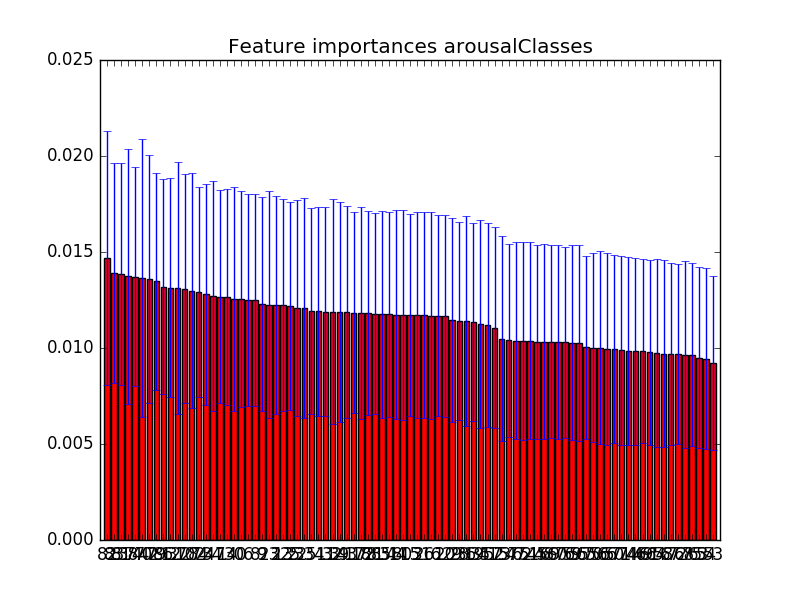
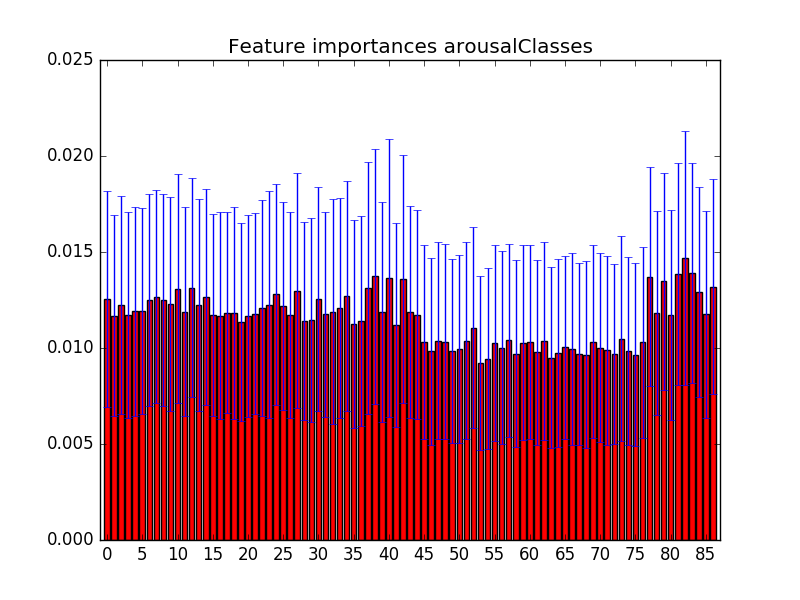
global working

diff --git a/results/GlobalRFarousalClasses2016-02-27 222131.html b/results/GlobalRFarousalClasses2016-02-27 222131.html
@@ -1,0 +1,10 @@
+<html><head><title>arousalClasses</title></head><body><h1>Meta Data</h1>
+        <table>
+        <tr>
+            <td><b>Classificator Used:</b></td>
+            <td>arousalClasses</td>
+        </tr>
+        <tr>
+            <td><b>Created on</b></td>
+            <td>2016-02-27 22:21:31</td>
+        <tr></table></br></br></br><img src="plots/globalPlotarousalClasses.png" ></br></br><h1>Importance Scores</h1></br><table><tr><td><b>Index</b></td><td>0</td><td>1</td><td>2</td><td>3</td><td>4</td><td>5</td><td>6</td><td>7</td><td>8</td><td>9</td><td>10</td><td>11</td><td>12</td><td>13</td><td>14</td><td>15</td><td>16</td><td>17</td><td>18</td><td>19</td><td>20</td><td>21</td><td>22</td><td>23</td><td>24</td><td>25</td><td>26</td><td>27</td><td>28</td><td>29</td><td>30</td><td>31</td><td>32</td><td>33</td><td>34</td><td>35</td><td>36</td><td>37</td><td>38</td><td>39</td><td>40</td><td>41</td><td>42</td><td>43</td><td>44</td><td>45</td><td>46</td><td>47</td><td>48</td><td>49</td><td>50</td><td>51</td><td>52</td><td>53</td><td>54</td><td>55</td><td>56</td><td>57</td><td>58</td><td>59</td><td>60</td><td>61</td><td>62</td><td>63</td><td>64</td><td>65</td><td>66</td><td>67</td><td>68</td><td>69</td><td>70</td><td>71</td><td>72</td><td>73</td><td>74</td><td>75</td><td>76</td><td>77</td><td>78</td><td>79</td><td>80</td><td>81</td><td>82</td><td>83</td><td>84</td><td>85</td><td>86</td></tr><tr><td><b>Rank</b></td><td>54</td><td>55</td><td>64</td><td>76</td><td>69</td><td>73</td><td>68</td><td>59</td><td>65</td><td>62</td><td>50</td><td>47</td><td>75</td><td>72</td><td>51</td><td>67</td><td>57</td><td>71</td><td>66</td><td>56</td><td>60</td><td>77</td><td>61</td><td>70</td><td>49</td><td>46</td><td>52</td><td>63</td><td>48</td><td>58</td><td>74</td><td>53</td><td>42</td><td>36</td><td>20</td><td>37</td><td>29</td><td>30</td><td>21</td><td>2</td><td>17</td><td>27</td><td>4</td><td>16</td><td>81</td><td>45</td><td>32</td><td>86</td><td>22</td><td>79</td><td>19</td><td>18</td><td>44</td><td>40</td><td>33</td><td>12</td><td>5</td><td>6</td><td>34</td><td>23</td><td>26</td><td>14</td><td>3</td><td>24</td><td>10</td><td>9</td><td>7</td><td>1</td><td>31</td><td>15</td><td>8</td><td>35</td><td>25</td><td>85</td><td>28</td><td>11</td><td>38</td><td>13</td><td>87</td><td>80</td><td>43</td><td>41</td><td>78</td><td>39</td><td>82</td><td>84</td><td>83</td></tr><tr><td><b>featName</b></td><td><b>A/B Fp1</b></td><td><b>A/B AF3</b></td><td><b>A/B F3</b></td><td><b>A/B F7</b></td><td><b>A/B FC5</b></td><td><b>A/B FC1</b></td><td><b>A/B C3</b></td><td><b>A/B T7</b></td><td><b>A/B CP5</b></td><td><b>A/B CP1</b></td><td><b>A/B P3</b></td><td><b>A/B P7</b></td><td><b>A/B PO3</b></td><td><b>A/B O1</b></td><td><b>A/B Oz</b></td><td><b>A/B Pz</b></td><td><b>A/B Fp2</b></td><td><b>A/B AF4</b></td><td><b>A/B Fz</b></td><td><b>A/B F4</b></td><td><b>A/B F8</b></td><td><b>A/B FC6</b></td><td><b>A/B FC2</b></td><td><b>A/B Cz</b></td><td><b>A/B C4</b></td><td><b>A/B T8</b></td><td><b>A/B CP6</b></td><td><b>A/B CP2</b></td><td><b>A/B P4</b></td><td><b>A/B P8</b></td><td><b>A/B PO4</b></td><td><b>A/B O2</b></td><td><b>LR Fp1,Fp2</b></td><td><b>LR AF3,AF4</b></td><td><b>LR F3,F4</b></td><td><b>LR F7,F8</b></td><td><b>LR FC5,FC6</b></td><td><b>LR FC1,FC2</b></td><td><b>LR C3,C4</b></td><td><b>LR T7,T8</b></td><td><b>LR CP5,CP6</b></td><td><b>LR CP1,CP2</b></td><td><b>LR P3,P4</b></td><td><b>LR P7,P8</b></td><td><b>LR PO3,PO4</b></td><td><b>FM Fp1</b></td><td><b>FM AF3</b></td><td><b>FM F3</b></td><td><b>FM F7</b></td><td><b>FM FC5</b></td><td><b>FM FC1</b></td><td><b>FM C3</b></td><td><b>FM T7</b></td><td><b>FM CP5</b></td><td><b>FM CP1</b></td><td><b>FM P3</b></td><td><b>FM P7</b></td><td><b>FM PO3</b></td><td><b>FM O1</b></td><td><b>FM Oz</b></td><td><b>FM Pz</b></td><td><b>FM Fp2</b></td><td><b>FM AF4</b></td><td><b>FM Fz</b></td><td><b>FM F4</b></td><td><b>FM F8</b></td><td><b>FM FC6</b></td><td><b>FM FC2</b></td><td><b>FM Cz</b></td><td><b>FM C4</b></td><td><b>FM T8</b></td><td><b>FM CP6</b></td><td><b>FM CP2</b></td><td><b>FM P4</b></td><td><b>FM P8</b></td><td><b>FM PO4</b></td><td><b>FM O2</b></td><td><b>avg GSR</b></td><td><b>std GSR</b></td><td><b>avg Respiration belt</b></td><td><b>std Respiration belt</b></td><td><b>avg Plethysmograph</b></td><td><b>std Plethysmograph</b></td><td><b>avg Temperature</b></td><td><b>std Temperature</b></td><td><b>avg HR</b></td><td><b>std HR</b></td></tr><tr><td><b>Importance Scores</b></td><td>0.0125426775008</td><td>0.0116830410492</td><td>0.0122406592275</td><td>0.01172226258</td><td>0.0119089150083</td><td>0.0119289507341</td><td>0.0125062032705</td><td>0.0126672956044</td><td>0.0124987527606</td><td>0.0123020351837</td><td>0.0130958707994</td><td>0.0118961575804</td><td>0.0131395558286</td><td>0.0122393144145</td><td>0.0126639326619</td><td>0.0117230317455</td><td>0.0116920653577</td><td>0.0118344615596</td><td>0.011829451097</td><td>0.0113719837451</td><td>0.0116727457831</td><td>0.0117830862885</td><td>0.0121048581646</td><td>0.0122554593983</td><td>0.0128016166841</td><td>0.0121843615218</td><td>0.01170850605</td><td>0.0129765198296</td><td>0.0114191567056</td><td>0.011455909643</td><td>0.0125567609784</td><td>0.0117495085041</td><td>0.0118857527676</td><td>0.012102716377</td><td>0.0127337550407</td><td>0.0112545085459</td><td>0.0114080826171</td><td>0.0131294517222</td><td>0.0137369675081</td><td>0.0118794544349</td><td>0.0136705636255</td><td>0.0112112987869</td><td>0.0135879806665</td><td>0.0118666767002</td><td>0.0117432095786</td><td>0.0103323246408</td><td>0.00982903556663</td><td>0.0103839330633</td><td>0.0103312459013</td><td>0.00982708570027</td><td>0.0099323267727</td><td>0.0103668873344</td><td>0.0110564306887</td><td>0.00921456729323</td><td>0.00944964973937</td><td>0.0102789212042</td><td>0.0100087663243</td><td>0.0103969594517</td><td>0.00970760346537</td><td>0.0102847531291</td><td>0.0103118251514</td><td>0.00976770182858</td><td>0.0103722079645</td><td>0.00949655075745</td><td>0.00974905418831</td><td>0.0100264526</td><td>0.00994609297028</td><td>0.0096838070718</td><td>0.00965968780341</td><td>0.010321928645</td><td>0.0100210481668</td><td>0.00988945498074</td><td>0.00968130314824</td><td>0.0104885526453</td><td>0.00984103088578</td><td>0.00965565423834</td><td>0.0102912715013</td><td>0.013708309364</td><td>0.0118217553841</td><td>0.0134716176739</td><td>0.0117368407731</td><td>0.0138484738991</td><td>0.0146903842072</td><td>0.0139000552105</td><td>0.0129067787206</td><td>0.0117517536223</td><td>0.0131943906915</td></tr><tr><td><b>std</b></td><td>0.00562233540448</td><td>0.00524850111558</td><td>0.00567760460711</td><td>0.00536066290516</td><td>0.00544725322076</td><td>0.00537772812924</td><td>0.00551640666865</td><td>0.00555733861077</td><td>0.00551341526909</td><td>0.00558824606153</td><td>0.00594709315908</td><td>0.00542442443433</td><td>0.00571745964655</td><td>0.00554122961679</td><td>0.00561966055974</td><td>0.00524856677855</td><td>0.00539091083283</td><td>0.00524544784083</td><td>0.00551802619201</td><td>0.00515161298197</td><td>0.00524116664731</td><td>0.00522974161026</td><td>0.00562179949667</td><td>0.00592060985669</td><td>0.00574952499973</td><td>0.0054260098433</td><td>0.00535219327886</td><td>0.0061269986134</td><td>0.00514383836651</td><td>0.00529948395425</td><td>0.00581572954657</td><td>0.00531897338842</td><td>0.00586909321888</td><td>0.00573490089488</td><td>0.00599008072284</td><td>0.00543776864172</td><td>0.00546166521544</td><td>0.00654371887966</td><td>0.00663433561386</td><td>0.00571538585804</td><td>0.00723920887423</td><td>0.00531918937359</td><td>0.00644620473844</td><td>0.00551624171866</td><td>0.00544645994649</td><td>0.00505129654869</td><td>0.00485798728723</td><td>0.00513241792367</td><td>0.00506509858951</td><td>0.00479483511215</td><td>0.00490187271735</td><td>0.00513205853258</td><td>0.00523944304575</td><td>0.00452870838723</td><td>0.00472370941972</td><td>0.00510400837667</td><td>0.00502710818121</td><td>0.00503524880634</td><td>0.00488683963076</td><td>0.00507444888863</td><td>0.00504727176502</td><td>0.00483255747636</td><td>0.00516539054798</td><td>0.00470974653546</td><td>0.00489703698029</td><td>0.00475614228763</td><td>0.00500089880678</td><td>0.00474560961637</td><td>0.00485279315868</td><td>0.00502390222634</td><td>0.0049120398681</td><td>0.00492234892832</td><td>0.0046776528769</td><td>0.00535491824534</td><td>0.00490721842012</td><td>0.00477770671263</td><td>0.00498823315619</td><td>0.00570203313741</td><td>0.00532233482777</td><td>0.00564872626075</td><td>0.00546368210419</td><td>0.0057753285206</td><td>0.00661419606723</td><td>0.00573253923709</td><td>0.00547699305957</td><td>0.00538104501384</td><td>0.00559982780133</td></tr></table></body></html>

diff --git a/results/latest/GlobalRFarousalClasses2016-02-27 222131.html b/results/latest/GlobalRFarousalClasses2016-02-27 222131.html
@@ -1,0 +1,10 @@
+<html><head><title>arousalClasses</title></head><body><h1>Meta Data</h1>
+        <table>
+        <tr>
+            <td><b>Classificator Used:</b></td>
+            <td>arousalClasses</td>
+        </tr>
+        <tr>
+            <td><b>Created on</b></td>
+            <td>2016-02-27 22:21:31</td>
+        <tr></table></br></br></br><img src="plots/globalPlotarousalClasses.png" ></br></br><h1>Importance Scores</h1></br><table><tr><td><b>Index</b></td><td>0</td><td>1</td><td>2</td><td>3</td><td>4</td><td>5</td><td>6</td><td>7</td><td>8</td><td>9</td><td>10</td><td>11</td><td>12</td><td>13</td><td>14</td><td>15</td><td>16</td><td>17</td><td>18</td><td>19</td><td>20</td><td>21</td><td>22</td><td>23</td><td>24</td><td>25</td><td>26</td><td>27</td><td>28</td><td>29</td><td>30</td><td>31</td><td>32</td><td>33</td><td>34</td><td>35</td><td>36</td><td>37</td><td>38</td><td>39</td><td>40</td><td>41</td><td>42</td><td>43</td><td>44</td><td>45</td><td>46</td><td>47</td><td>48</td><td>49</td><td>50</td><td>51</td><td>52</td><td>53</td><td>54</td><td>55</td><td>56</td><td>57</td><td>58</td><td>59</td><td>60</td><td>61</td><td>62</td><td>63</td><td>64</td><td>65</td><td>66</td><td>67</td><td>68</td><td>69</td><td>70</td><td>71</td><td>72</td><td>73</td><td>74</td><td>75</td><td>76</td><td>77</td><td>78</td><td>79</td><td>80</td><td>81</td><td>82</td><td>83</td><td>84</td><td>85</td><td>86</td></tr><tr><td><b>Rank</b></td><td>54</td><td>55</td><td>64</td><td>76</td><td>69</td><td>73</td><td>68</td><td>59</td><td>65</td><td>62</td><td>50</td><td>47</td><td>75</td><td>72</td><td>51</td><td>67</td><td>57</td><td>71</td><td>66</td><td>56</td><td>60</td><td>77</td><td>61</td><td>70</td><td>49</td><td>46</td><td>52</td><td>63</td><td>48</td><td>58</td><td>74</td><td>53</td><td>42</td><td>36</td><td>20</td><td>37</td><td>29</td><td>30</td><td>21</td><td>2</td><td>17</td><td>27</td><td>4</td><td>16</td><td>81</td><td>45</td><td>32</td><td>86</td><td>22</td><td>79</td><td>19</td><td>18</td><td>44</td><td>40</td><td>33</td><td>12</td><td>5</td><td>6</td><td>34</td><td>23</td><td>26</td><td>14</td><td>3</td><td>24</td><td>10</td><td>9</td><td>7</td><td>1</td><td>31</td><td>15</td><td>8</td><td>35</td><td>25</td><td>85</td><td>28</td><td>11</td><td>38</td><td>13</td><td>87</td><td>80</td><td>43</td><td>41</td><td>78</td><td>39</td><td>82</td><td>84</td><td>83</td></tr><tr><td><b>featName</b></td><td><b>A/B Fp1</b></td><td><b>A/B AF3</b></td><td><b>A/B F3</b></td><td><b>A/B F7</b></td><td><b>A/B FC5</b></td><td><b>A/B FC1</b></td><td><b>A/B C3</b></td><td><b>A/B T7</b></td><td><b>A/B CP5</b></td><td><b>A/B CP1</b></td><td><b>A/B P3</b></td><td><b>A/B P7</b></td><td><b>A/B PO3</b></td><td><b>A/B O1</b></td><td><b>A/B Oz</b></td><td><b>A/B Pz</b></td><td><b>A/B Fp2</b></td><td><b>A/B AF4</b></td><td><b>A/B Fz</b></td><td><b>A/B F4</b></td><td><b>A/B F8</b></td><td><b>A/B FC6</b></td><td><b>A/B FC2</b></td><td><b>A/B Cz</b></td><td><b>A/B C4</b></td><td><b>A/B T8</b></td><td><b>A/B CP6</b></td><td><b>A/B CP2</b></td><td><b>A/B P4</b></td><td><b>A/B P8</b></td><td><b>A/B PO4</b></td><td><b>A/B O2</b></td><td><b>LR Fp1,Fp2</b></td><td><b>LR AF3,AF4</b></td><td><b>LR F3,F4</b></td><td><b>LR F7,F8</b></td><td><b>LR FC5,FC6</b></td><td><b>LR FC1,FC2</b></td><td><b>LR C3,C4</b></td><td><b>LR T7,T8</b></td><td><b>LR CP5,CP6</b></td><td><b>LR CP1,CP2</b></td><td><b>LR P3,P4</b></td><td><b>LR P7,P8</b></td><td><b>LR PO3,PO4</b></td><td><b>FM Fp1</b></td><td><b>FM AF3</b></td><td><b>FM F3</b></td><td><b>FM F7</b></td><td><b>FM FC5</b></td><td><b>FM FC1</b></td><td><b>FM C3</b></td><td><b>FM T7</b></td><td><b>FM CP5</b></td><td><b>FM CP1</b></td><td><b>FM P3</b></td><td><b>FM P7</b></td><td><b>FM PO3</b></td><td><b>FM O1</b></td><td><b>FM Oz</b></td><td><b>FM Pz</b></td><td><b>FM Fp2</b></td><td><b>FM AF4</b></td><td><b>FM Fz</b></td><td><b>FM F4</b></td><td><b>FM F8</b></td><td><b>FM FC6</b></td><td><b>FM FC2</b></td><td><b>FM Cz</b></td><td><b>FM C4</b></td><td><b>FM T8</b></td><td><b>FM CP6</b></td><td><b>FM CP2</b></td><td><b>FM P4</b></td><td><b>FM P8</b></td><td><b>FM PO4</b></td><td><b>FM O2</b></td><td><b>avg GSR</b></td><td><b>std GSR</b></td><td><b>avg Respiration belt</b></td><td><b>std Respiration belt</b></td><td><b>avg Plethysmograph</b></td><td><b>std Plethysmograph</b></td><td><b>avg Temperature</b></td><td><b>std Temperature</b></td><td><b>avg HR</b></td><td><b>std HR</b></td></tr><tr><td><b>Importance Scores</b></td><td>0.0125426775008</td><td>0.0116830410492</td><td>0.0122406592275</td><td>0.01172226258</td><td>0.0119089150083</td><td>0.0119289507341</td><td>0.0125062032705</td><td>0.0126672956044</td><td>0.0124987527606</td><td>0.0123020351837</td><td>0.0130958707994</td><td>0.0118961575804</td><td>0.0131395558286</td><td>0.0122393144145</td><td>0.0126639326619</td><td>0.0117230317455</td><td>0.0116920653577</td><td>0.0118344615596</td><td>0.011829451097</td><td>0.0113719837451</td><td>0.0116727457831</td><td>0.0117830862885</td><td>0.0121048581646</td><td>0.0122554593983</td><td>0.0128016166841</td><td>0.0121843615218</td><td>0.01170850605</td><td>0.0129765198296</td><td>0.0114191567056</td><td>0.011455909643</td><td>0.0125567609784</td><td>0.0117495085041</td><td>0.0118857527676</td><td>0.012102716377</td><td>0.0127337550407</td><td>0.0112545085459</td><td>0.0114080826171</td><td>0.0131294517222</td><td>0.0137369675081</td><td>0.0118794544349</td><td>0.0136705636255</td><td>0.0112112987869</td><td>0.0135879806665</td><td>0.0118666767002</td><td>0.0117432095786</td><td>0.0103323246408</td><td>0.00982903556663</td><td>0.0103839330633</td><td>0.0103312459013</td><td>0.00982708570027</td><td>0.0099323267727</td><td>0.0103668873344</td><td>0.0110564306887</td><td>0.00921456729323</td><td>0.00944964973937</td><td>0.0102789212042</td><td>0.0100087663243</td><td>0.0103969594517</td><td>0.00970760346537</td><td>0.0102847531291</td><td>0.0103118251514</td><td>0.00976770182858</td><td>0.0103722079645</td><td>0.00949655075745</td><td>0.00974905418831</td><td>0.0100264526</td><td>0.00994609297028</td><td>0.0096838070718</td><td>0.00965968780341</td><td>0.010321928645</td><td>0.0100210481668</td><td>0.00988945498074</td><td>0.00968130314824</td><td>0.0104885526453</td><td>0.00984103088578</td><td>0.00965565423834</td><td>0.0102912715013</td><td>0.013708309364</td><td>0.0118217553841</td><td>0.0134716176739</td><td>0.0117368407731</td><td>0.0138484738991</td><td>0.0146903842072</td><td>0.0139000552105</td><td>0.0129067787206</td><td>0.0117517536223</td><td>0.0131943906915</td></tr><tr><td><b>std</b></td><td>0.00562233540448</td><td>0.00524850111558</td><td>0.00567760460711</td><td>0.00536066290516</td><td>0.00544725322076</td><td>0.00537772812924</td><td>0.00551640666865</td><td>0.00555733861077</td><td>0.00551341526909</td><td>0.00558824606153</td><td>0.00594709315908</td><td>0.00542442443433</td><td>0.00571745964655</td><td>0.00554122961679</td><td>0.00561966055974</td><td>0.00524856677855</td><td>0.00539091083283</td><td>0.00524544784083</td><td>0.00551802619201</td><td>0.00515161298197</td><td>0.00524116664731</td><td>0.00522974161026</td><td>0.00562179949667</td><td>0.00592060985669</td><td>0.00574952499973</td><td>0.0054260098433</td><td>0.00535219327886</td><td>0.0061269986134</td><td>0.00514383836651</td><td>0.00529948395425</td><td>0.00581572954657</td><td>0.00531897338842</td><td>0.00586909321888</td><td>0.00573490089488</td><td>0.00599008072284</td><td>0.00543776864172</td><td>0.00546166521544</td><td>0.00654371887966</td><td>0.00663433561386</td><td>0.00571538585804</td><td>0.00723920887423</td><td>0.00531918937359</td><td>0.00644620473844</td><td>0.00551624171866</td><td>0.00544645994649</td><td>0.00505129654869</td><td>0.00485798728723</td><td>0.00513241792367</td><td>0.00506509858951</td><td>0.00479483511215</td><td>0.00490187271735</td><td>0.00513205853258</td><td>0.00523944304575</td><td>0.00452870838723</td><td>0.00472370941972</td><td>0.00510400837667</td><td>0.00502710818121</td><td>0.00503524880634</td><td>0.00488683963076</td><td>0.00507444888863</td><td>0.00504727176502</td><td>0.00483255747636</td><td>0.00516539054798</td><td>0.00470974653546</td><td>0.00489703698029</td><td>0.00475614228763</td><td>0.00500089880678</td><td>0.00474560961637</td><td>0.00485279315868</td><td>0.00502390222634</td><td>0.0049120398681</td><td>0.00492234892832</td><td>0.0046776528769</td><td>0.00535491824534</td><td>0.00490721842012</td><td>0.00477770671263</td><td>0.00498823315619</td><td>0.00570203313741</td><td>0.00532233482777</td><td>0.00564872626075</td><td>0.00546368210419</td><td>0.0057753285206</td><td>0.00661419606723</td><td>0.00573253923709</td><td>0.00547699305957</td><td>0.00538104501384</td><td>0.00559982780133</td></tr></table></body></html>

diff --git a/results/GlobalRFvalenceClasses2016-02-27 222122.html b/results/GlobalRFvalenceClasses2016-02-27 222122.html
@@ -1,0 +1,10 @@
+<html><head><title>valenceClasses</title></head><body><h1>Meta Data</h1>
+        <table>
+        <tr>
+            <td><b>Classificator Used:</b></td>
+            <td>valenceClasses</td>
+        </tr>
+        <tr>
+            <td><b>Created on</b></td>
+            <td>2016-02-27 22:21:22</td>
+        <tr></table></br></br></br><img src="plots/globalPlotvalenceClasses.png" ></br></br><h1>Importance Scores</h1></br><table><tr><td><b>Index</b></td><td>0</td><td>1</td><td>2</td><td>3</td><td>4</td><td>5</td><td>6</td><td>7</td><td>8</td><td>9</td><td>10</td><td>11</td><td>12</td><td>13</td><td>14</td><td>15</td><td>16</td><td>17</td><td>18</td><td>19</td><td>20</td><td>21</td><td>22</td><td>23</td><td>24</td><td>25</td><td>26</td><td>27</td><td>28</td><td>29</td><td>30</td><td>31</td><td>32</td><td>33</td><td>34</td><td>35</td><td>36</td><td>37</td><td>38</td><td>39</td><td>40</td><td>41</td><td>42</td><td>43</td><td>44</td><td>45</td><td>46</td><td>47</td><td>48</td><td>49</td><td>50</td><td>51</td><td>52</td><td>53</td><td>54</td><td>55</td><td>56</td><td>57</td><td>58</td><td>59</td><td>60</td><td>61</td><td>62</td><td>63</td><td>64</td><td>65</td><td>66</td><td>67</td><td>68</td><td>69</td><td>70</td><td>71</td><td>72</td><td>73</td><td>74</td><td>75</td><td>76</td><td>77</td><td>78</td><td>79</td><td>80</td><td>81</td><td>82</td><td>83</td><td>84</td><td>85</td><td>86</td></tr><tr><td><b>Rank</b></td><td>50</td><td>65</td><td>62</td><td>57</td><td>49</td><td>73</td><td>59</td><td>52</td><td>51</td><td>69</td><td>67</td><td>46</td><td>64</td><td>58</td><td>74</td><td>47</td><td>61</td><td>76</td><td>55</td><td>66</td><td>33</td><td>56</td><td>48</td><td>71</td><td>63</td><td>77</td><td>60</td><td>40</td><td>54</td><td>38</td><td>53</td><td>70</td><td>72</td><td>41</td><td>75</td><td>68</td><td>45</td><td>35</td><td>12</td><td>36</td><td>34</td><td>42</td><td>4</td><td>44</td><td>20</td><td>39</td><td>14</td><td>37</td><td>83</td><td>18</td><td>15</td><td>28</td><td>43</td><td>11</td><td>23</td><td>9</td><td>24</td><td>10</td><td>85</td><td>81</td><td>30</td><td>19</td><td>27</td><td>6</td><td>79</td><td>2</td><td>26</td><td>22</td><td>32</td><td>31</td><td>3</td><td>7</td><td>25</td><td>13</td><td>29</td><td>21</td><td>84</td><td>5</td><td>17</td><td>86</td><td>1</td><td>8</td><td>87</td><td>16</td><td>80</td><td>82</td><td>78</td></tr><tr><td><b>featName</b></td><td><b>A/B Fp1</b></td><td><b>A/B AF3</b></td><td><b>A/B F3</b></td><td><b>A/B F7</b></td><td><b>A/B FC5</b></td><td><b>A/B FC1</b></td><td><b>A/B C3</b></td><td><b>A/B T7</b></td><td><b>A/B CP5</b></td><td><b>A/B CP1</b></td><td><b>A/B P3</b></td><td><b>A/B P7</b></td><td><b>A/B PO3</b></td><td><b>A/B O1</b></td><td><b>A/B Oz</b></td><td><b>A/B Pz</b></td><td><b>A/B Fp2</b></td><td><b>A/B AF4</b></td><td><b>A/B Fz</b></td><td><b>A/B F4</b></td><td><b>A/B F8</b></td><td><b>A/B FC6</b></td><td><b>A/B FC2</b></td><td><b>A/B Cz</b></td><td><b>A/B C4</b></td><td><b>A/B T8</b></td><td><b>A/B CP6</b></td><td><b>A/B CP2</b></td><td><b>A/B P4</b></td><td><b>A/B P8</b></td><td><b>A/B PO4</b></td><td><b>A/B O2</b></td><td><b>LR Fp1,Fp2</b></td><td><b>LR AF3,AF4</b></td><td><b>LR F3,F4</b></td><td><b>LR F7,F8</b></td><td><b>LR FC5,FC6</b></td><td><b>LR FC1,FC2</b></td><td><b>LR C3,C4</b></td><td><b>LR T7,T8</b></td><td><b>LR CP5,CP6</b></td><td><b>LR CP1,CP2</b></td><td><b>LR P3,P4</b></td><td><b>LR P7,P8</b></td><td><b>LR PO3,PO4</b></td><td><b>FM Fp1</b></td><td><b>FM AF3</b></td><td><b>FM F3</b></td><td><b>FM F7</b></td><td><b>FM FC5</b></td><td><b>FM FC1</b></td><td><b>FM C3</b></td><td><b>FM T7</b></td><td><b>FM CP5</b></td><td><b>FM CP1</b></td><td><b>FM P3</b></td><td><b>FM P7</b></td><td><b>FM PO3</b></td><td><b>FM O1</b></td><td><b>FM Oz</b></td><td><b>FM Pz</b></td><td><b>FM Fp2</b></td><td><b>FM AF4</b></td><td><b>FM Fz</b></td><td><b>FM F4</b></td><td><b>FM F8</b></td><td><b>FM FC6</b></td><td><b>FM FC2</b></td><td><b>FM Cz</b></td><td><b>FM C4</b></td><td><b>FM T8</b></td><td><b>FM CP6</b></td><td><b>FM CP2</b></td><td><b>FM P4</b></td><td><b>FM P8</b></td><td><b>FM PO4</b></td><td><b>FM O2</b></td><td><b>avg GSR</b></td><td><b>std GSR</b></td><td><b>avg Respiration belt</b></td><td><b>std Respiration belt</b></td><td><b>avg Plethysmograph</b></td><td><b>std Plethysmograph</b></td><td><b>avg Temperature</b></td><td><b>std Temperature</b></td><td><b>avg HR</b></td><td><b>std HR</b></td></tr><tr><td><b>Importance Scores</b></td><td>0.0134486091158</td><td>0.0126307289795</td><td>0.0126446385156</td><td>0.0113997683378</td><td>0.0132238497784</td><td>0.0125810634869</td><td>0.0127209267861</td><td>0.0134659177626</td><td>0.0120637783893</td><td>0.0121440283201</td><td>0.0120491934709</td><td>0.0111293441975</td><td>0.0127754546971</td><td>0.0116955482003</td><td>0.0119221851283</td><td>0.0136886901541</td><td>0.0132410524193</td><td>0.0118776629076</td><td>0.0124375152004</td><td>0.0115266879192</td><td>0.0130722990116</td><td>0.0126392272338</td><td>0.0120559803728</td><td>0.0121083978957</td><td>0.0127681425277</td><td>0.0126315342223</td><td>0.0125766226487</td><td>0.0119802407839</td><td>0.0127824422522</td><td>0.0123421076318</td><td>0.012644340831</td><td>0.0126423300232</td><td>0.010270437686</td><td>0.0113016188037</td><td>0.0111172934257</td><td>0.0112441929764</td><td>0.0117178639971</td><td>0.0107390621176</td><td>0.0116565820745</td><td>0.0103880339306</td><td>0.0108798904912</td><td>0.0113768398091</td><td>0.0120352691871</td><td>0.0114355412625</td><td>0.0110518011933</td><td>0.00991675495744</td><td>0.0100069452146</td><td>0.0103176101421</td><td>0.0095801682048</td><td>0.00910336653918</td><td>0.00974389668792</td><td>0.00964000627286</td><td>0.0107549615216</td><td>0.01051982444</td><td>0.0101422798128</td><td>0.0102815322931</td><td>0.00953747580697</td><td>0.00994162896979</td><td>0.00963878873221</td><td>0.0103767499919</td><td>0.010009202327</td><td>0.0095308892606</td><td>0.0103422534206</td><td>0.0099240455874</td><td>0.00940114705598</td><td>0.0101847914028</td><td>0.00981417282832</td><td>0.0109423336427</td><td>0.0097849409063</td><td>0.010823841037</td><td>0.0103240626037</td><td>0.0108540991471</td><td>0.00962505348514</td><td>0.00994253592914</td><td>0.0108863372873</td><td>0.0100134433766</td><td>0.0103541641864</td><td>0.0163149978873</td><td>0.0125971617135</td><td>0.0137048139903</td><td>0.01227843726</td><td>0.014730308766</td><td>0.0117652484945</td><td>0.0132182534573</td><td>0.0121616307921</td><td>0.0132968965073</td><td>0.0135482119037</td></tr><tr><td><b>std</b></td><td>0.00567228754625</td><td>0.0054044823528</td><td>0.00542470779783</td><td>0.00511448383424</td><td>0.005753195961</td><td>0.00545712991565</td><td>0.00556081436085</td><td>0.00565721093902</td><td>0.00529696188518</td><td>0.00534957624725</td><td>0.00535450441319</td><td>0.00503969408101</td><td>0.00551689493464</td><td>0.00513078549835</td><td>0.00527270700643</td><td>0.00585962223531</td><td>0.00567646359676</td><td>0.00524449567807</td><td>0.00543790569007</td><td>0.00518743906012</td><td>0.00553881148801</td><td>0.00544812658262</td><td>0.00542355395582</td><td>0.00532302673774</td><td>0.00554513808521</td><td>0.00544600800801</td><td>0.00540728367207</td><td>0.00535916849463</td><td>0.00545646559243</td><td>0.00543237141577</td><td>0.00546532951178</td><td>0.00557131205785</td><td>0.0049392008853</td><td>0.0053419157694</td><td>0.00519340505184</td><td>0.00532912216235</td><td>0.00544174620092</td><td>0.005243749594</td><td>0.00544708746162</td><td>0.00493331667217</td><td>0.00503312377613</td><td>0.00520390898955</td><td>0.00554289171828</td><td>0.00523930238724</td><td>0.00509437120312</td><td>0.00478360104434</td><td>0.00479188069196</td><td>0.00492376037386</td><td>0.00462425682383</td><td>0.0044405555473</td><td>0.00478521009693</td><td>0.00466851088056</td><td>0.00510961937669</td><td>0.00489852185972</td><td>0.00480412302158</td><td>0.00494092207152</td><td>0.00462536994433</td><td>0.00479901018657</td><td>0.00472267023815</td><td>0.00507545163944</td><td>0.00471999879086</td><td>0.00468514985423</td><td>0.00494283046685</td><td>0.00482073344619</td><td>0.00467904742597</td><td>0.00484862171706</td><td>0.00475734210037</td><td>0.00525436528961</td><td>0.00481316672265</td><td>0.0051338463086</td><td>0.00485168166122</td><td>0.00501790810945</td><td>0.00467087066159</td><td>0.00478457676627</td><td>0.00512147685427</td><td>0.00479414214137</td><td>0.00494969953252</td><td>0.0063138329307</td><td>0.00540398663301</td><td>0.00562963888275</td><td>0.0053024630109</td><td>0.00581629085995</td><td>0.00516704542352</td><td>0.00552282728296</td><td>0.00526647724384</td><td>0.0056898190331</td><td>0.00567639456346</td></tr></table></body></html>

diff --git a/results/latest/GlobalRFvalenceClasses2016-02-27 222122.html b/results/latest/GlobalRFvalenceClasses2016-02-27 222122.html
@@ -1,0 +1,10 @@
+<html><head><title>valenceClasses</title></head><body><h1>Meta Data</h1>
+        <table>
+        <tr>
+            <td><b>Classificator Used:</b></td>
+            <td>valenceClasses</td>
+        </tr>
+        <tr>
+            <td><b>Created on</b></td>
+            <td>2016-02-27 22:21:22</td>
+        <tr></table></br></br></br><img src="plots/globalPlotvalenceClasses.png" ></br></br><h1>Importance Scores</h1></br><table><tr><td><b>Index</b></td><td>0</td><td>1</td><td>2</td><td>3</td><td>4</td><td>5</td><td>6</td><td>7</td><td>8</td><td>9</td><td>10</td><td>11</td><td>12</td><td>13</td><td>14</td><td>15</td><td>16</td><td>17</td><td>18</td><td>19</td><td>20</td><td>21</td><td>22</td><td>23</td><td>24</td><td>25</td><td>26</td><td>27</td><td>28</td><td>29</td><td>30</td><td>31</td><td>32</td><td>33</td><td>34</td><td>35</td><td>36</td><td>37</td><td>38</td><td>39</td><td>40</td><td>41</td><td>42</td><td>43</td><td>44</td><td>45</td><td>46</td><td>47</td><td>48</td><td>49</td><td>50</td><td>51</td><td>52</td><td>53</td><td>54</td><td>55</td><td>56</td><td>57</td><td>58</td><td>59</td><td>60</td><td>61</td><td>62</td><td>63</td><td>64</td><td>65</td><td>66</td><td>67</td><td>68</td><td>69</td><td>70</td><td>71</td><td>72</td><td>73</td><td>74</td><td>75</td><td>76</td><td>77</td><td>78</td><td>79</td><td>80</td><td>81</td><td>82</td><td>83</td><td>84</td><td>85</td><td>86</td></tr><tr><td><b>Rank</b></td><td>50</td><td>65</td><td>62</td><td>57</td><td>49</td><td>73</td><td>59</td><td>52</td><td>51</td><td>69</td><td>67</td><td>46</td><td>64</td><td>58</td><td>74</td><td>47</td><td>61</td><td>76</td><td>55</td><td>66</td><td>33</td><td>56</td><td>48</td><td>71</td><td>63</td><td>77</td><td>60</td><td>40</td><td>54</td><td>38</td><td>53</td><td>70</td><td>72</td><td>41</td><td>75</td><td>68</td><td>45</td><td>35</td><td>12</td><td>36</td><td>34</td><td>42</td><td>4</td><td>44</td><td>20</td><td>39</td><td>14</td><td>37</td><td>83</td><td>18</td><td>15</td><td>28</td><td>43</td><td>11</td><td>23</td><td>9</td><td>24</td><td>10</td><td>85</td><td>81</td><td>30</td><td>19</td><td>27</td><td>6</td><td>79</td><td>2</td><td>26</td><td>22</td><td>32</td><td>31</td><td>3</td><td>7</td><td>25</td><td>13</td><td>29</td><td>21</td><td>84</td><td>5</td><td>17</td><td>86</td><td>1</td><td>8</td><td>87</td><td>16</td><td>80</td><td>82</td><td>78</td></tr><tr><td><b>featName</b></td><td><b>A/B Fp1</b></td><td><b>A/B AF3</b></td><td><b>A/B F3</b></td><td><b>A/B F7</b></td><td><b>A/B FC5</b></td><td><b>A/B FC1</b></td><td><b>A/B C3</b></td><td><b>A/B T7</b></td><td><b>A/B CP5</b></td><td><b>A/B CP1</b></td><td><b>A/B P3</b></td><td><b>A/B P7</b></td><td><b>A/B PO3</b></td><td><b>A/B O1</b></td><td><b>A/B Oz</b></td><td><b>A/B Pz</b></td><td><b>A/B Fp2</b></td><td><b>A/B AF4</b></td><td><b>A/B Fz</b></td><td><b>A/B F4</b></td><td><b>A/B F8</b></td><td><b>A/B FC6</b></td><td><b>A/B FC2</b></td><td><b>A/B Cz</b></td><td><b>A/B C4</b></td><td><b>A/B T8</b></td><td><b>A/B CP6</b></td><td><b>A/B CP2</b></td><td><b>A/B P4</b></td><td><b>A/B P8</b></td><td><b>A/B PO4</b></td><td><b>A/B O2</b></td><td><b>LR Fp1,Fp2</b></td><td><b>LR AF3,AF4</b></td><td><b>LR F3,F4</b></td><td><b>LR F7,F8</b></td><td><b>LR FC5,FC6</b></td><td><b>LR FC1,FC2</b></td><td><b>LR C3,C4</b></td><td><b>LR T7,T8</b></td><td><b>LR CP5,CP6</b></td><td><b>LR CP1,CP2</b></td><td><b>LR P3,P4</b></td><td><b>LR P7,P8</b></td><td><b>LR PO3,PO4</b></td><td><b>FM Fp1</b></td><td><b>FM AF3</b></td><td><b>FM F3</b></td><td><b>FM F7</b></td><td><b>FM FC5</b></td><td><b>FM FC1</b></td><td><b>FM C3</b></td><td><b>FM T7</b></td><td><b>FM CP5</b></td><td><b>FM CP1</b></td><td><b>FM P3</b></td><td><b>FM P7</b></td><td><b>FM PO3</b></td><td><b>FM O1</b></td><td><b>FM Oz</b></td><td><b>FM Pz</b></td><td><b>FM Fp2</b></td><td><b>FM AF4</b></td><td><b>FM Fz</b></td><td><b>FM F4</b></td><td><b>FM F8</b></td><td><b>FM FC6</b></td><td><b>FM FC2</b></td><td><b>FM Cz</b></td><td><b>FM C4</b></td><td><b>FM T8</b></td><td><b>FM CP6</b></td><td><b>FM CP2</b></td><td><b>FM P4</b></td><td><b>FM P8</b></td><td><b>FM PO4</b></td><td><b>FM O2</b></td><td><b>avg GSR</b></td><td><b>std GSR</b></td><td><b>avg Respiration belt</b></td><td><b>std Respiration belt</b></td><td><b>avg Plethysmograph</b></td><td><b>std Plethysmograph</b></td><td><b>avg Temperature</b></td><td><b>std Temperature</b></td><td><b>avg HR</b></td><td><b>std HR</b></td></tr><tr><td><b>Importance Scores</b></td><td>0.0134486091158</td><td>0.0126307289795</td><td>0.0126446385156</td><td>0.0113997683378</td><td>0.0132238497784</td><td>0.0125810634869</td><td>0.0127209267861</td><td>0.0134659177626</td><td>0.0120637783893</td><td>0.0121440283201</td><td>0.0120491934709</td><td>0.0111293441975</td><td>0.0127754546971</td><td>0.0116955482003</td><td>0.0119221851283</td><td>0.0136886901541</td><td>0.0132410524193</td><td>0.0118776629076</td><td>0.0124375152004</td><td>0.0115266879192</td><td>0.0130722990116</td><td>0.0126392272338</td><td>0.0120559803728</td><td>0.0121083978957</td><td>0.0127681425277</td><td>0.0126315342223</td><td>0.0125766226487</td><td>0.0119802407839</td><td>0.0127824422522</td><td>0.0123421076318</td><td>0.012644340831</td><td>0.0126423300232</td><td>0.010270437686</td><td>0.0113016188037</td><td>0.0111172934257</td><td>0.0112441929764</td><td>0.0117178639971</td><td>0.0107390621176</td><td>0.0116565820745</td><td>0.0103880339306</td><td>0.0108798904912</td><td>0.0113768398091</td><td>0.0120352691871</td><td>0.0114355412625</td><td>0.0110518011933</td><td>0.00991675495744</td><td>0.0100069452146</td><td>0.0103176101421</td><td>0.0095801682048</td><td>0.00910336653918</td><td>0.00974389668792</td><td>0.00964000627286</td><td>0.0107549615216</td><td>0.01051982444</td><td>0.0101422798128</td><td>0.0102815322931</td><td>0.00953747580697</td><td>0.00994162896979</td><td>0.00963878873221</td><td>0.0103767499919</td><td>0.010009202327</td><td>0.0095308892606</td><td>0.0103422534206</td><td>0.0099240455874</td><td>0.00940114705598</td><td>0.0101847914028</td><td>0.00981417282832</td><td>0.0109423336427</td><td>0.0097849409063</td><td>0.010823841037</td><td>0.0103240626037</td><td>0.0108540991471</td><td>0.00962505348514</td><td>0.00994253592914</td><td>0.0108863372873</td><td>0.0100134433766</td><td>0.0103541641864</td><td>0.0163149978873</td><td>0.0125971617135</td><td>0.0137048139903</td><td>0.01227843726</td><td>0.014730308766</td><td>0.0117652484945</td><td>0.0132182534573</td><td>0.0121616307921</td><td>0.0132968965073</td><td>0.0135482119037</td></tr><tr><td><b>std</b></td><td>0.00567228754625</td><td>0.0054044823528</td><td>0.00542470779783</td><td>0.00511448383424</td><td>0.005753195961</td><td>0.00545712991565</td><td>0.00556081436085</td><td>0.00565721093902</td><td>0.00529696188518</td><td>0.00534957624725</td><td>0.00535450441319</td><td>0.00503969408101</td><td>0.00551689493464</td><td>0.00513078549835</td><td>0.00527270700643</td><td>0.00585962223531</td><td>0.00567646359676</td><td>0.00524449567807</td><td>0.00543790569007</td><td>0.00518743906012</td><td>0.00553881148801</td><td>0.00544812658262</td><td>0.00542355395582</td><td>0.00532302673774</td><td>0.00554513808521</td><td>0.00544600800801</td><td>0.00540728367207</td><td>0.00535916849463</td><td>0.00545646559243</td><td>0.00543237141577</td><td>0.00546532951178</td><td>0.00557131205785</td><td>0.0049392008853</td><td>0.0053419157694</td><td>0.00519340505184</td><td>0.00532912216235</td><td>0.00544174620092</td><td>0.005243749594</td><td>0.00544708746162</td><td>0.00493331667217</td><td>0.00503312377613</td><td>0.00520390898955</td><td>0.00554289171828</td><td>0.00523930238724</td><td>0.00509437120312</td><td>0.00478360104434</td><td>0.00479188069196</td><td>0.00492376037386</td><td>0.00462425682383</td><td>0.0044405555473</td><td>0.00478521009693</td><td>0.00466851088056</td><td>0.00510961937669</td><td>0.00489852185972</td><td>0.00480412302158</td><td>0.00494092207152</td><td>0.00462536994433</td><td>0.00479901018657</td><td>0.00472267023815</td><td>0.00507545163944</td><td>0.00471999879086</td><td>0.00468514985423</td><td>0.00494283046685</td><td>0.00482073344619</td><td>0.00467904742597</td><td>0.00484862171706</td><td>0.00475734210037</td><td>0.00525436528961</td><td>0.00481316672265</td><td>0.0051338463086</td><td>0.00485168166122</td><td>0.00501790810945</td><td>0.00467087066159</td><td>0.00478457676627</td><td>0.00512147685427</td><td>0.00479414214137</td><td>0.00494969953252</td><td>0.0063138329307</td><td>0.00540398663301</td><td>0.00562963888275</td><td>0.0053024630109</td><td>0.00581629085995</td><td>0.00516704542352</td><td>0.00552282728296</td><td>0.00526647724384</td><td>0.0056898190331</td><td>0.00567639456346</td></tr></table></body></html>

diff --git a/app/reporters.py b/app/reporters.py
@@ -541,7 +541,7 @@ class HTMLCorrReporter(CSVReporter):
 
 class HTMLRFAnalyticsReporter(AReporter):
 
-    def genPlot(self,classificatorName, importances, indices, std, fname='globalPlot', fpad="../../results/plots/"):
+    def genPlot(self,classificatorName, importances, std, fname='globalPlot', fpad="../../results/plots/"):
         fname = fpad + fname + classificatorName + '.png'
 
         if not os.path.isfile(fname):
@@ -550,13 +550,13 @@ class HTMLRFAnalyticsReporter(AReporter):
             plt.title("Feature importances " + classificatorName)
             plt.bar(
                 range(len(importances)),
-                importances[indices],
+                importances,
                 color="r",
-                yerr=std[indices],
+                yerr=std,
                 align="center"
             )
-            plt.xticks(range(len(indices)), indices)
-            plt.xlim([-1, len(indices)])
+            plt.xticks(range(0,len(importances),5))
+            plt.xlim([-1, len(importances)])
             plt.savefig(fname)
             plt.clf()
 
@@ -584,24 +584,31 @@ class HTMLRFAnalyticsReporter(AReporter):
                 'featNames'         : featNames,
                 'importances'       : importances,
                 'std'               : std,
-                'indices'           : indices
                 }
         '''
 
-        self.genPlot(result['classificatorName'], np.array(result['importances']), result['indices'], result['std'])
+        self.genPlot(classificatorName=result['classificatorName'], importances=np.array(result['global_importances']), std=result['global_std'])
         f.write('<img src="plots/globalPlot' + result['classificatorName'] + '.png" ></br></br>')
 
 
-        f.write('<h1>Importance Scores</h1></br><table><tr><td><b>what</b></td>')
+        f.write('<h1>Importance Scores</h1></br><table><tr><td><b>Index</b></td>')
+        for i in range(len(result['global_importances'])):
+            f.write('<td>' + str(i) + '</td>')
+
+        f.write("</tr><tr><td><b>Rank</b></td>")
+        for i in result['global_indices']:
+            f.write('<td>' + str(i+1) + '</td>')
+
+        f.write('</tr><tr><td><b>featName</b></td>')
         for name in result['featNames']:
             f.write('<td><b>' + str(name) + '</b></td>')
+
         f.write('</tr><tr><td><b>Importance Scores</b></td>')
-
-        for feat in result['importances']:
+        for feat in result['global_importances']:
             f.write('<td>' + str(feat) + '</td>')
-        f.write('</tr><tr><td><b>std</b></td>')
 
-        for std in result['std']:
+        f.write('</tr><tr><td><b>std</b></td>')
+        for std in result['global_std']:
             f.write('<td>' + str(std) + '</td>')
         f.write('</tr>')
 

diff --git a/app/models.py b/app/models.py
@@ -370,17 +370,17 @@ class GlobalRFAnalyticsModel(AModel):
         #get importances
         importances = forest.feature_importances_
         std = np.std([tree.feature_importances_ for tree in forest.estimators_], axis = 0)
-        indices = np.argsort(importances)[::-1]
 
         print('Feature Ranking')
+        indices = np.argsort(importances)[::-1]
         featNames = self.personLoader.featureExtractor.getFeatureNames()
         for f in range(X.shape[1]):
             print( f+1, '. feature ', indices[f], ' (', featNames[indices[f]], ') [', importances[indices[f]], ']')
 
         return {
-                'classificatorName' : classificatorName,
-                'featNames'         : featNames,
-                'importances'       : importances,
-                'std'               : std,
-                'indices'           : indices
+                'classificatorName'  : classificatorName,
+                'featNames'          : featNames,
+                'global_importances' : importances,
+                'global_std'         : std,
+                'global_indices'     : indices[::-1]
                 }
